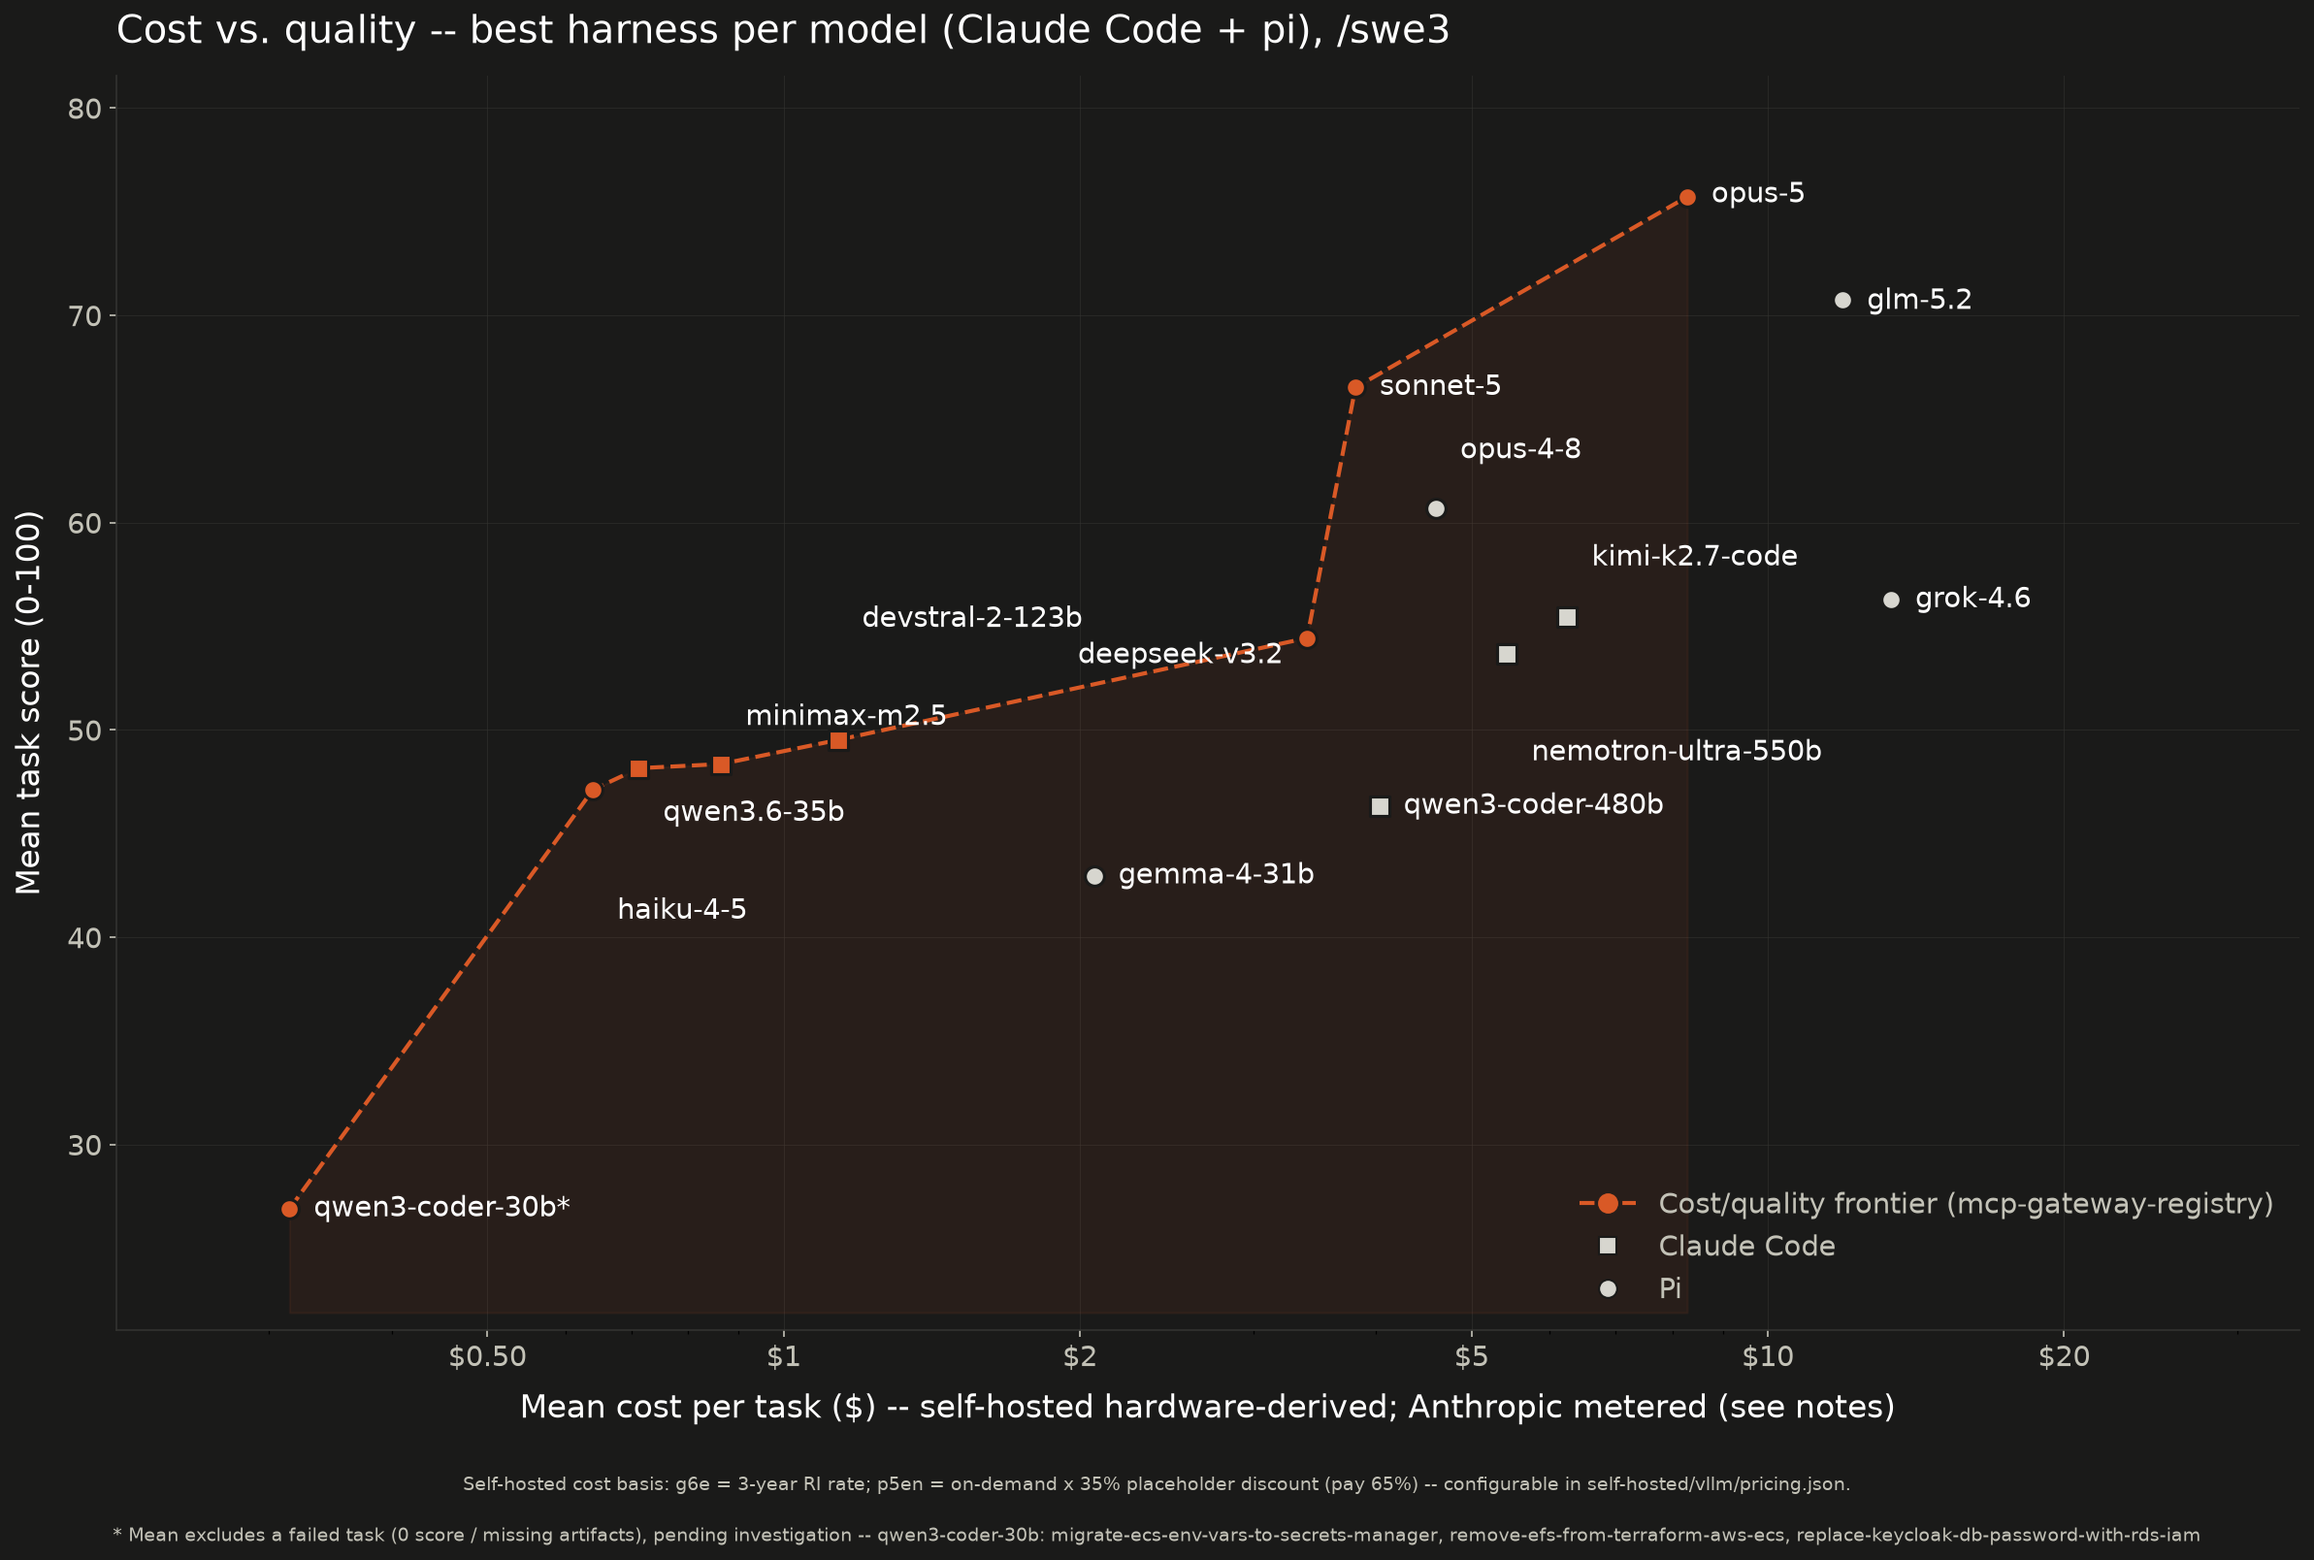
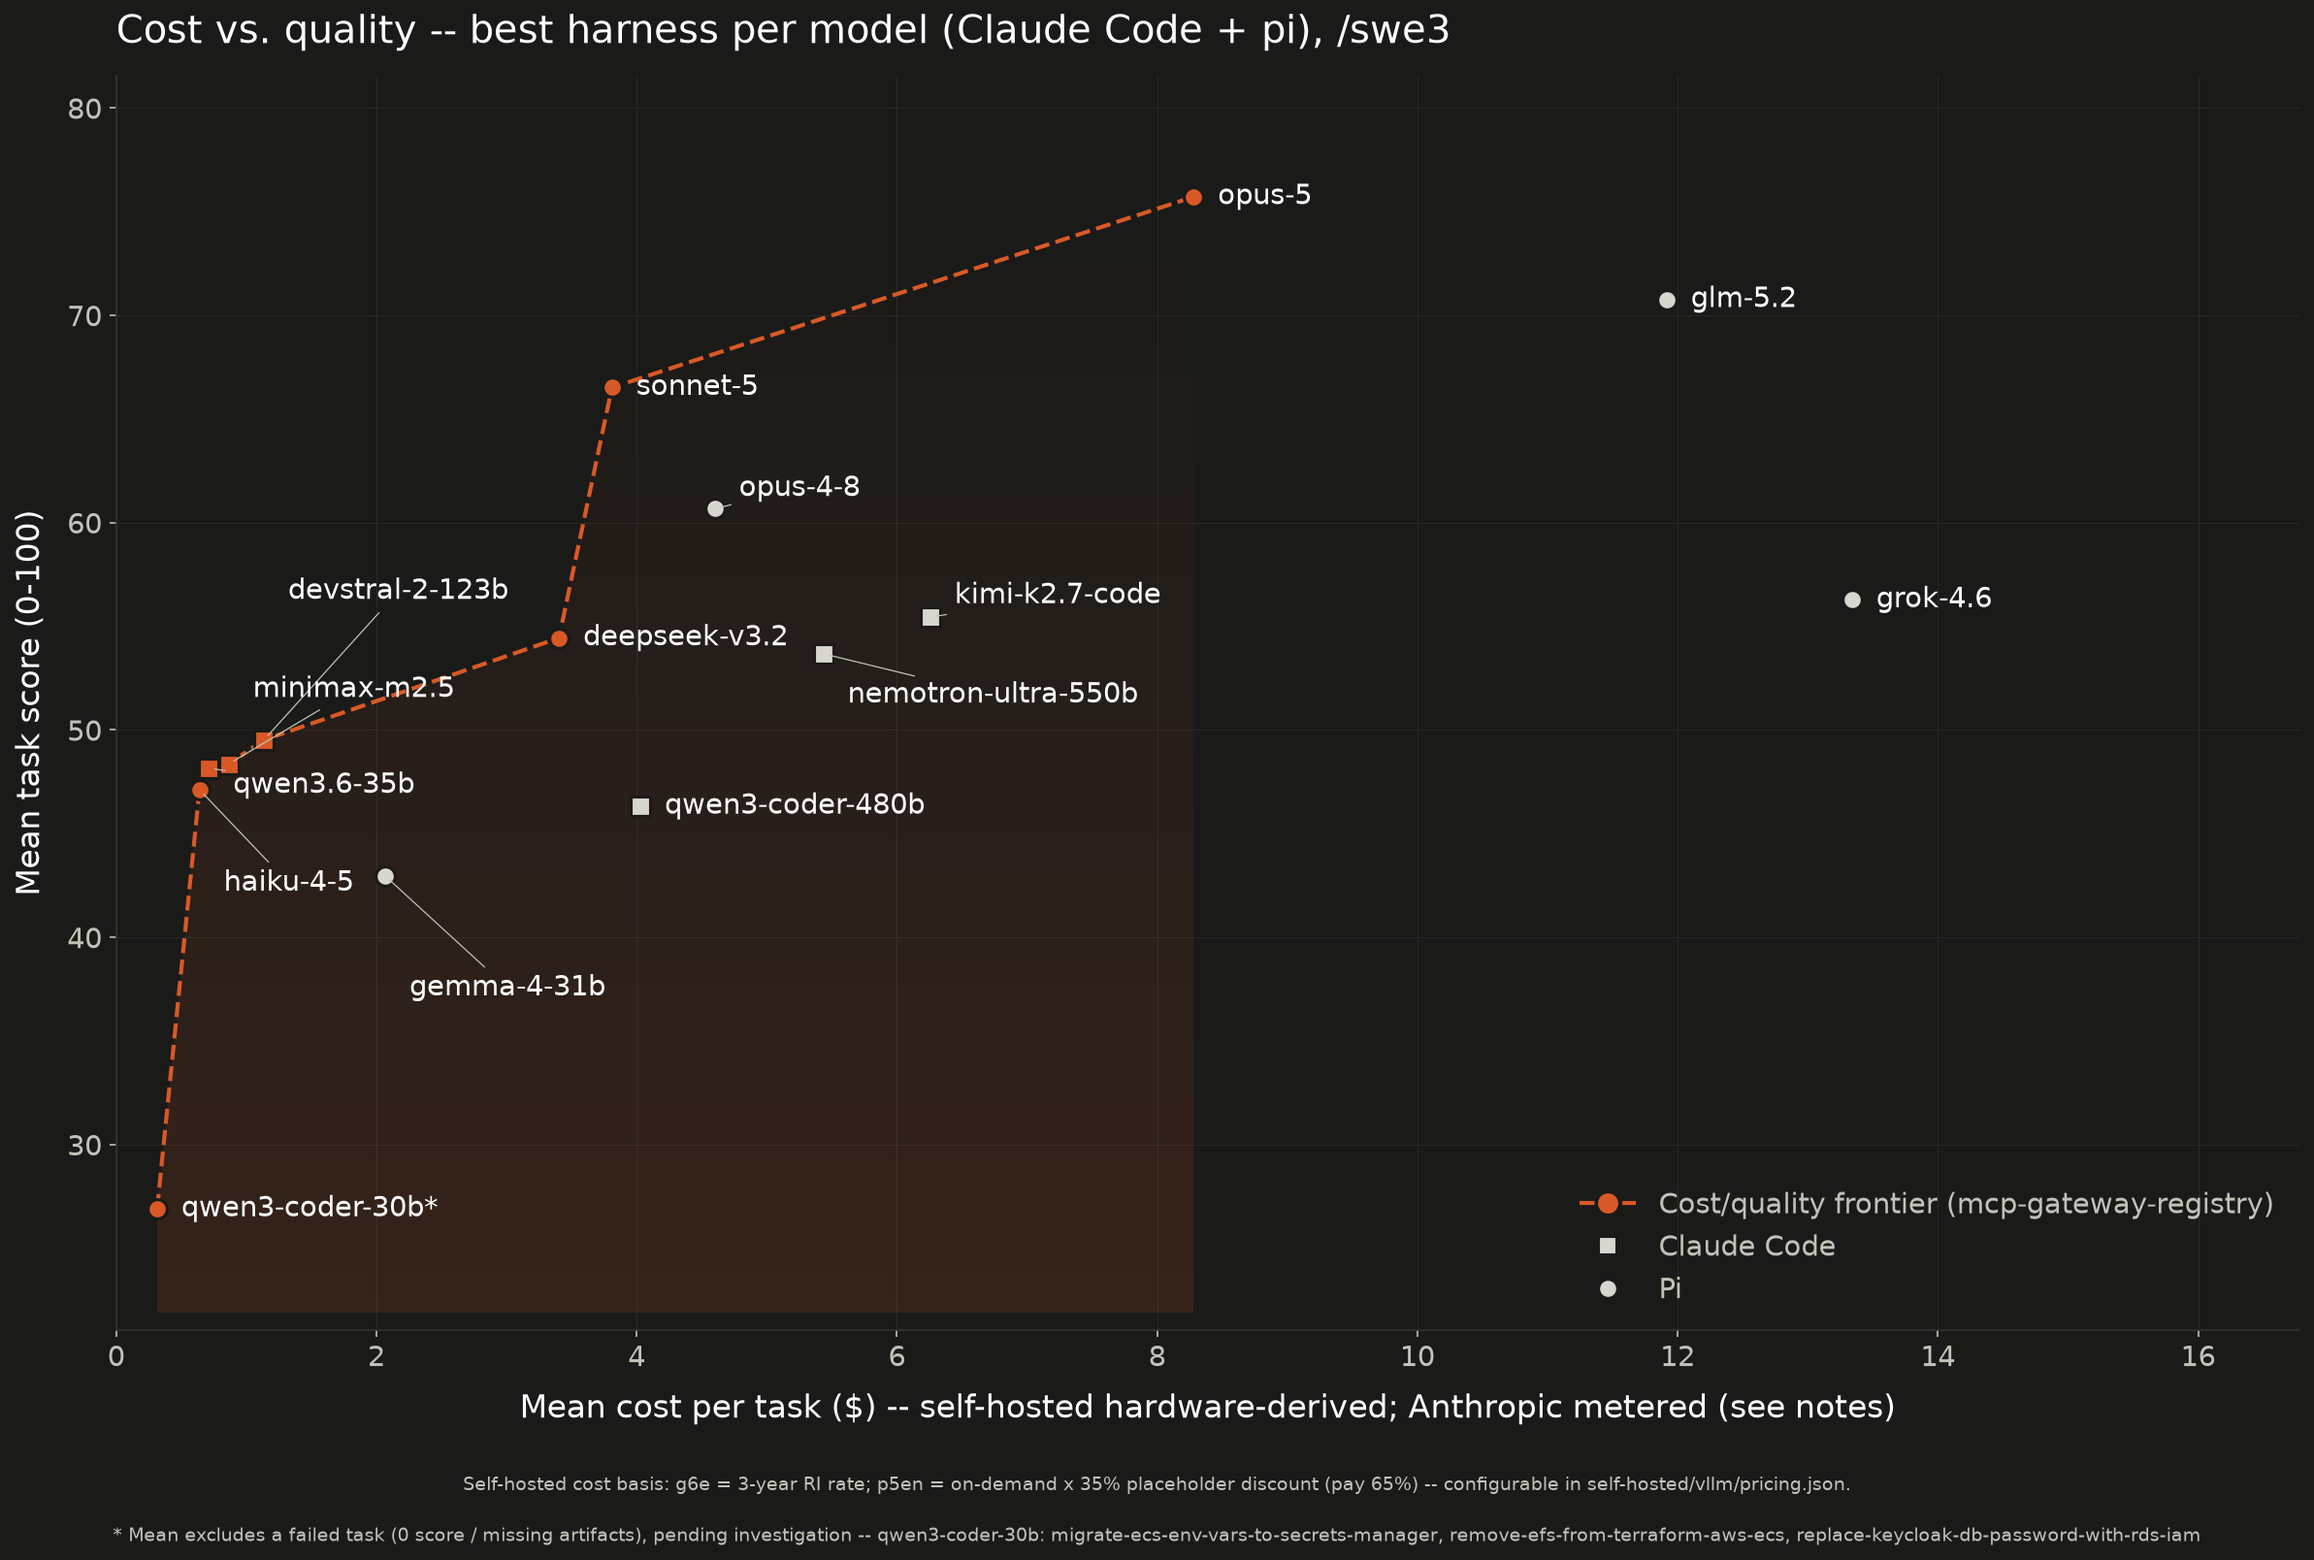
fix(charts): keep the combined chart on a linear cost axis
The log axis read well but broke comparability with the per-harness
charts, which are linear. Linear is the default again; --log-x keeps the
option for anyone who wants the sub-$1 models spread out.

A linear axis packs the four models under $1.20 into a few percent of the
width, so their labels cannot all sit beside their own dots. Two changes
keep them attributable there:

- Leader lines are drawn again whenever the axis is linear. A displaced
  label with no line back to its dot reads as belonging to whichever dot
  it happens to land near, which is worse than the line it saves.
- A label that would run its text across another model's marker flips to
  the left of its own dot instead, but only while it still fits inside
  the axes -- otherwise it would run out over the y-axis.

The per-harness charts are unaffected: both new behaviours are opt-in,
and rendering cost-quality-{pi,cc}-swe3.png with this script is
byte-identical to rendering it with main's.

diff --git a/benchmarks/scripts/plot_cost_quality_combined.py b/benchmarks/scripts/plot_cost_quality_combined.py
@@ -34,10 +34,9 @@ charts do -- the emitted JSON carries a per-hosting frontier alongside the
 combined, cross-hosting one, and the combined view is directional only. See
 docs/cost-per-task-methodology.md.
 
-Cost is drawn on a LOG axis by default (--linear-x opts out): the measured costs
-run from $0.31 to $24.64, so a linear axis packs a third of the models into the
-leftmost few percent of the width, where their labels cannot sit beside their
-own dots.
+Cost is linear, matching the per-harness charts. ``--log-x`` switches to a log
+axis, which spreads the sub-$1 models out of the left margin at the price of an
+axis that no longer reads directly against the other charts.
 
 Usage:
     uv run scripts/plot_cost_quality_combined.py
@@ -401,12 +400,12 @@ def _parse_args() -> argparse.Namespace:
         "--dark", action="store_true", help="Render the dark-mode theme"
     )
     parser.add_argument(
-        "--linear-x",
+        "--log-x",
         action="store_true",
-        help="Put cost back on a linear axis. The default is logarithmic: cost "
-        "spans nearly two orders of magnitude here, and on a linear axis the "
-        "sub-$1 models crowd into the left margin, where their labels can no "
-        "longer sit beside their own dots.",
+        help="Draw cost on a log axis. Cost spans nearly two orders of "
+        "magnitude, so a log scale spreads the sub-$1 models out of the left "
+        "margin; the linear default keeps the axis directly comparable with "
+        "the per-harness charts.",
     )
     parser.add_argument(
         "--metrics-dir",
@@ -469,12 +468,14 @@ def main() -> None:
         cost_label=cost_label,
         output=output,
         frontier_label=f"Cost/quality frontier ({args.repo})",
-        leader_lines=False,
+        # A linear cost axis packs the cheap models together, so a displaced
+        # label needs a thin line back to its own dot to stay attributable.
+        leader_lines=not args.log_x,
         label_weight="normal",
         marker_for=_marker_for,
         extra_legend=_legend_handles(harnesses, mode),
         label_backing=False,
-        log_x=not args.linear_x,
+        log_x=args.log_x,
         avoid_markers=True,
     )
 

diff --git a/benchmarks/scripts/plot_cost_quality.py b/benchmarks/scripts/plot_cost_quality.py
@@ -534,6 +534,9 @@ def _label_sides(
     px = {id(p): to_px((p.mean_cost, p.mean_score)) for p in points}
     text_w = 12 + POINT_LABEL_FONTSIZE * 0.6 * label_chars
     half_line = POINT_LABEL_FONTSIZE * 1.35 * fig.dpi / 72.0 * 0.5
+    # Flipping left is only an option while the text still fits inside the axes;
+    # past that it would run out over the y-axis instead.
+    left_edge_px = ax.transAxes.transform((0.0, 0.0))[0]
     sides: dict[int, str] = {}
     for point in points:
         x_px, y_px = px[id(point)]
@@ -544,7 +547,8 @@ def _label_sides(
             and abs(px[id(other)][1] - label_y) < half_line
             for other in points
         )
-        sides[id(point)] = "left" if collides else "right"
+        room_on_left = x_px - text_w > left_edge_px
+        sides[id(point)] = "left" if collides and room_on_left else "right"
     return sides
 
 
